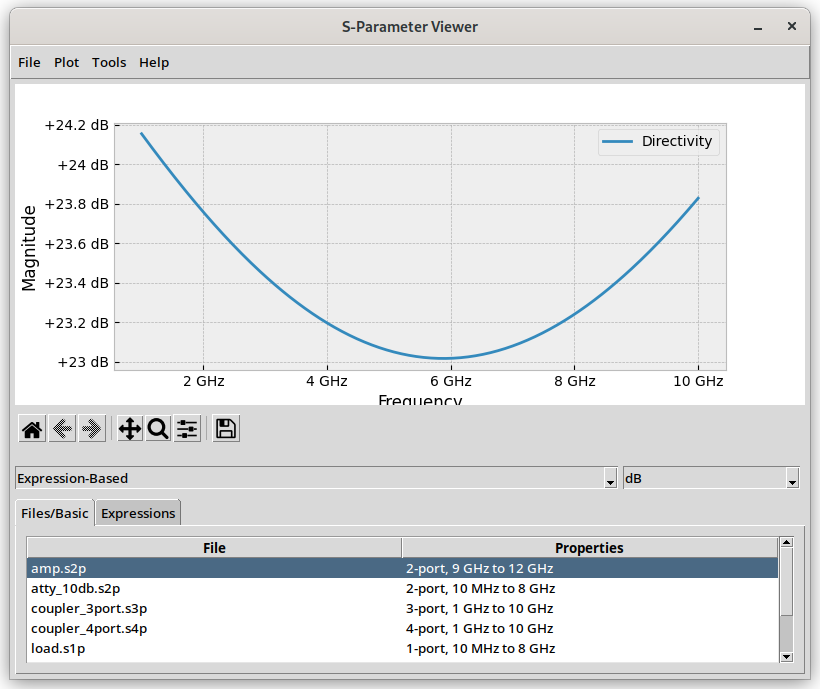
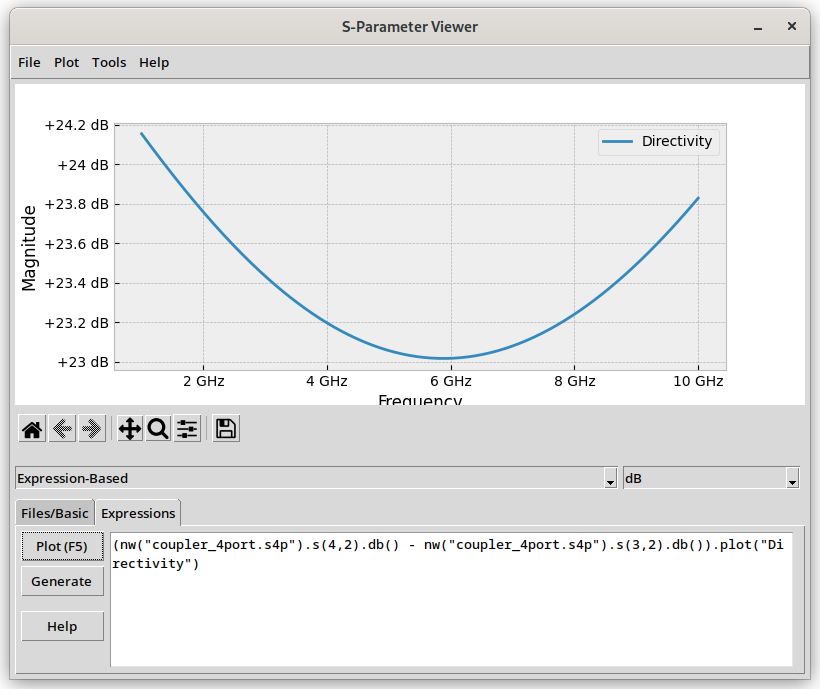
Improved docs

Changed region(s): [[0.0305, 0.762, 0.9756, 0.9753]]

diff --git a/README.md b/README.md
@@ -9,8 +9,9 @@ A cross-platform S-parameter Viewer written in Python.
 Main Features
 -------------
 
-- Various flexible ways of displaying S-parameters, e.g. IL (all/reciprocal) only / RL only, linear/dB/Smith-chart/re-im, impulse response, Phase (normal / unwrapped), Group Delay
+- Various flexible ways of displaying S-parameters, e.g. IL (all/reciprocal) only / RL only, linear/dB/Smith-chart/re-im, impulse/step response, Phase (normal/unwrapped), Group Delay
 - Plotting of Python-based expressions, including functions for stability factors and stability circles, for adding passive elements, and for Bode-Fano optimum RL estimation
+    - to learn more about this feature, open the "Expressions" tab, and click "Help"
 - Export to CSV or XLSX
 
 
